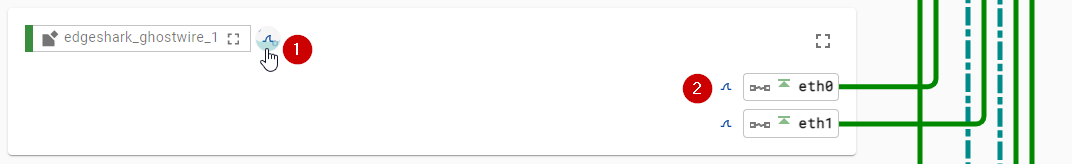
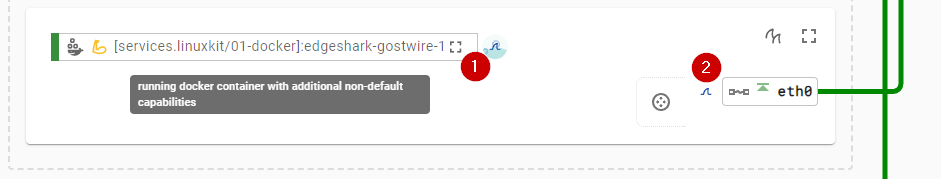
doc: multi-interface select section

diff --git a/docs/capture-ui.md b/docs/capture-ui.md
@@ -1,13 +1,19 @@
 # Capture via Web UI
 
-> [!ATTENTION] You **must access** the Edgeshark user interface on port `:5001`
-> in order to successfully start captures from the UI. Attempting to start
-> captures when accessing the user interface via an IED's reverse proxy at port
-> `:443` will fail with authentication failures. Unfortunately, this cannot be
-> fixed without proper IED support for session hand-overs.
+You can easily start [Wireshark](https://www.wireshark.org/) live capture
+session from Edgeshark's web UI.
 
-Throughout the wiring and detail views, you should notice symbolized "shark
-fins" ![capture](_media/icons/Capture.svg ':class=mdicon :no-zoom'), like ❶ and
+> [!ATTENTION] Siemens Industrial Edge users: you **must access** the Edgeshark
+> user interface on port `:5001` in order to successfully start captures from
+> the UI. Attempting to start captures when accessing the user interface via an
+> IED's reverse proxy at port `:443` will fail with authentication failures.
+> Unfortunately, this cannot be fixed without proper IED support for session
+> hand-overs.
+
+## One-Click Capture
+
+Throughout the wiring and detail views, you should notice symbolized **shark
+fins** ![capture](_media/icons/Capture.svg ':class=mdicon :no-zoom'), like ❶ and
 ❷.
 
 ![capture buttons](_images/wiring-capture.png ':class=scrshot')
@@ -15,10 +21,46 @@ fins" ![capture](_media/icons/Capture.svg ':class=mdicon :no-zoom'), like ❶ an
 Clicking or tapping these capture symbols will start Wireshark and automatically
 begin the live capture.
 
-- ❶ captures from all network interfaces (including "lo", even if [not
+- ❶ captures **from all network interfaces** (including "lo", even if [not
   shown](settings)) of a container/containee.
-- ❷ captures only from the single network interface next to the capture symbol.
+- ❷ captures only **from the single network interface** next to the capture
+  symbol.
 
-Please note that capture buttons get disabled for network interfaces that are in
-down operational state (that is, when the corresponding network interface is showing
-a reddish halo).
+Please note that capture buttons for network interfaces in the "down"
+operational state are automatically disabled. Network interfaces that are "down"
+show a reddish halo.
+
+## Specific Multi-Interface Capture
+
+When you need to capture from multiple, specific networkinterfaces – but not
+from _all_ – tap or click the "multi-fin"
+![multi-select](_media/icons/CaptureMulti.svg ':class=mdicon :no-zoom') symbol
+❶. You are now switching into multiple interface selection mode for this
+particular virtual IP stack. The above mentioned capture symbols next to
+containees and network interfaces are hidden while in this selection mode.
+
+![multi-select](_images/wiring-capture-multipass.png ':class=scrshot')
+
+Please note that you can leave the multiple interface selection mode at any time
+by tapping the ![multi-select](_media/icons/CaptureMultiOn.svg ':class=mdicon
+:no-zoom') symbol ❷.
+
+Now you can select or unselect the network interfaces ❸ you want to capture
+from. Selected network interfaces show a check mark in form of a shark fin
+![selected network interface](_media/icons/CaptureCheck.svg ':class=mdicon
+:no-zoom'). Network interfaces in "down" operational mode cannot be selected,
+their selection boxes are grayed out.
+
+![select network interfaces](_images/wiring-capture-selection.png ':class=scrshot')
+
+To start a new Wireshark live capture session, tap or click the
+![capture](_media/icons/Capture.svg ':class=mdicon :no-zoom') symbol ❹
+immediately to the left of the multi-select mode symbol.
+
+![start multi-interface capture](_images/wiring-capture-multi-start.png
+':class=scrshot')
+
+Please note that the network interface selection is kept even after leaving the
+selection mode, and as long as the particular virtual IP stack instance exists,
+across discovery refreshes. However, it is **not kept** across reloading the
+Edgeshark web UI.

diff --git a/docs/filtering.md b/docs/filtering.md
@@ -1,34 +1,38 @@
 # Filtering
 
-In the [Wiring](wiring) and [Details](details) views, Edgeshark allows filtering
-the discovered virtual IP stacks. However, when viewing the details of a
-_single_ virtual IP stack, filtering is not possible and the filtering pattern
-input together with the options buttons hidden.
+In the [Wiring](wiring) and [Details](details) views, Edgeshark supports
+filtering the discovered virtual IP stacks, in order to reduce the amount of
+information displayed for busy container hosts.
 
-To open the sidebar and place the text cursor into the filter pattern field,
-ready for input, press either <span class="key">Ctrl</span>+<span
-class="key">f</span> or <span class="key">/</span>.
+To set a filter, press either <span class="key">Ctrl</span>+<span
+class="key">f</span> or <span class="key">/</span>: this opens the sidebar and
+places the text cursor into the filter pattern field. Edgeshark supports both
+substring patterns as well as regular expressions.
 
 ![filtering](_images/filtering.png ':class=scrshot')
 
-- ❶ filter pattern, either taken as:
-  - a _substring_ that must be included in a containee's name, Composer porject,
-    or Kubernetes pod,
-  - or a [_regular expression_](https://regex101.com/) in ECMAScript/JavaScript
-    syntax when the option ![regexp](_media/icons/Regexp.svg ':class=mdicon
-    :no-zoom') ❸ is active.
+- ❶ the **filter pattern**, either:
+  - a **substring** that must be included in a containee's name, Composer
+    porject, or Kubernetes pod,
+  - or a [**regular expression**](https://regex101.com/) in
+    ECMAScript/JavaScript syntax when the option
+    ![regexp](_media/icons/Regexp.svg ':class=mdicon :no-zoom') ❸ is active.
 - ❷ ![regexp](_media/icons/Case.svg ':class=mdicon :no-zoom') switches
     between _case-insensitive_ and _case-sensitive_ pattern matching.
 - ❸ ![regexp](_media/icons/Regexp.svg ':class=mdicon :no-zoom') switches between
   _substring_ pattern matching and _regular expression_ matching.
 
 Press <span class="key">Enter</span> or <span class="key">Esc</span> to close
-the sidebar.
+the sidebar, so that when you return to a host the last filter set will be
+applied again.
+
+Filtering pattern and options are stored in your browser's per-host local
+storage.
 
 When filtering is active – that is, the filter pattern is not empty –, Edgeshark
-displays a notice at the top of the wiring and details views. This is to remind
-you that the filter is currently restricting the amount of virtual IP stacks
-displayed, so you aren't wondering in vain why the display looks like it is
-incomplete. 
+displays a notice ❶ at the top of the wiring and details views. This is to
+remind you that the filter is currently restricting the amount of virtual IP
+stacks displayed, so you aren't wondering in vain why the display looks like it
+is incomplete. 
 
 ![filtering notice](_images/filtering-notice.png ':class=scrshot')
